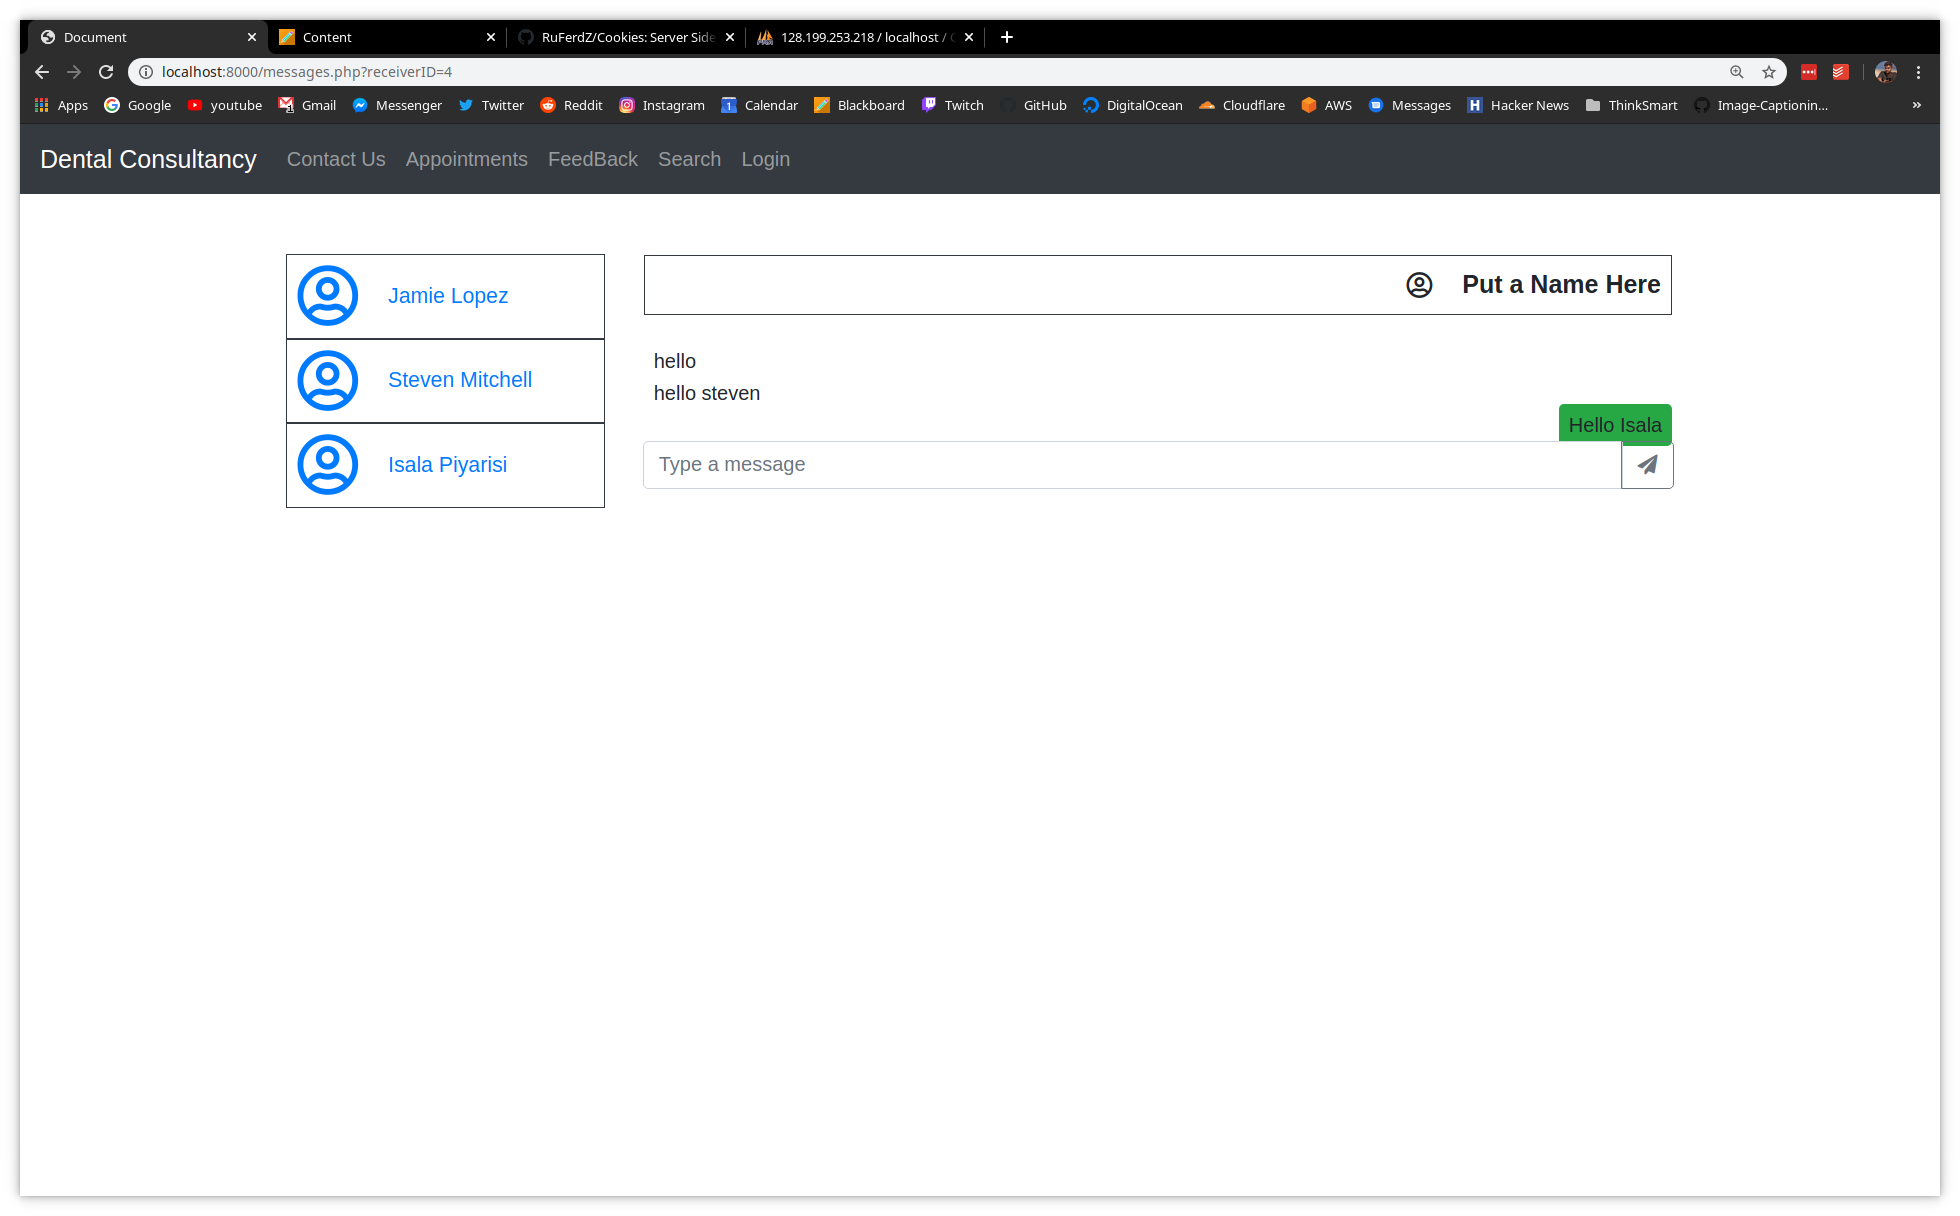
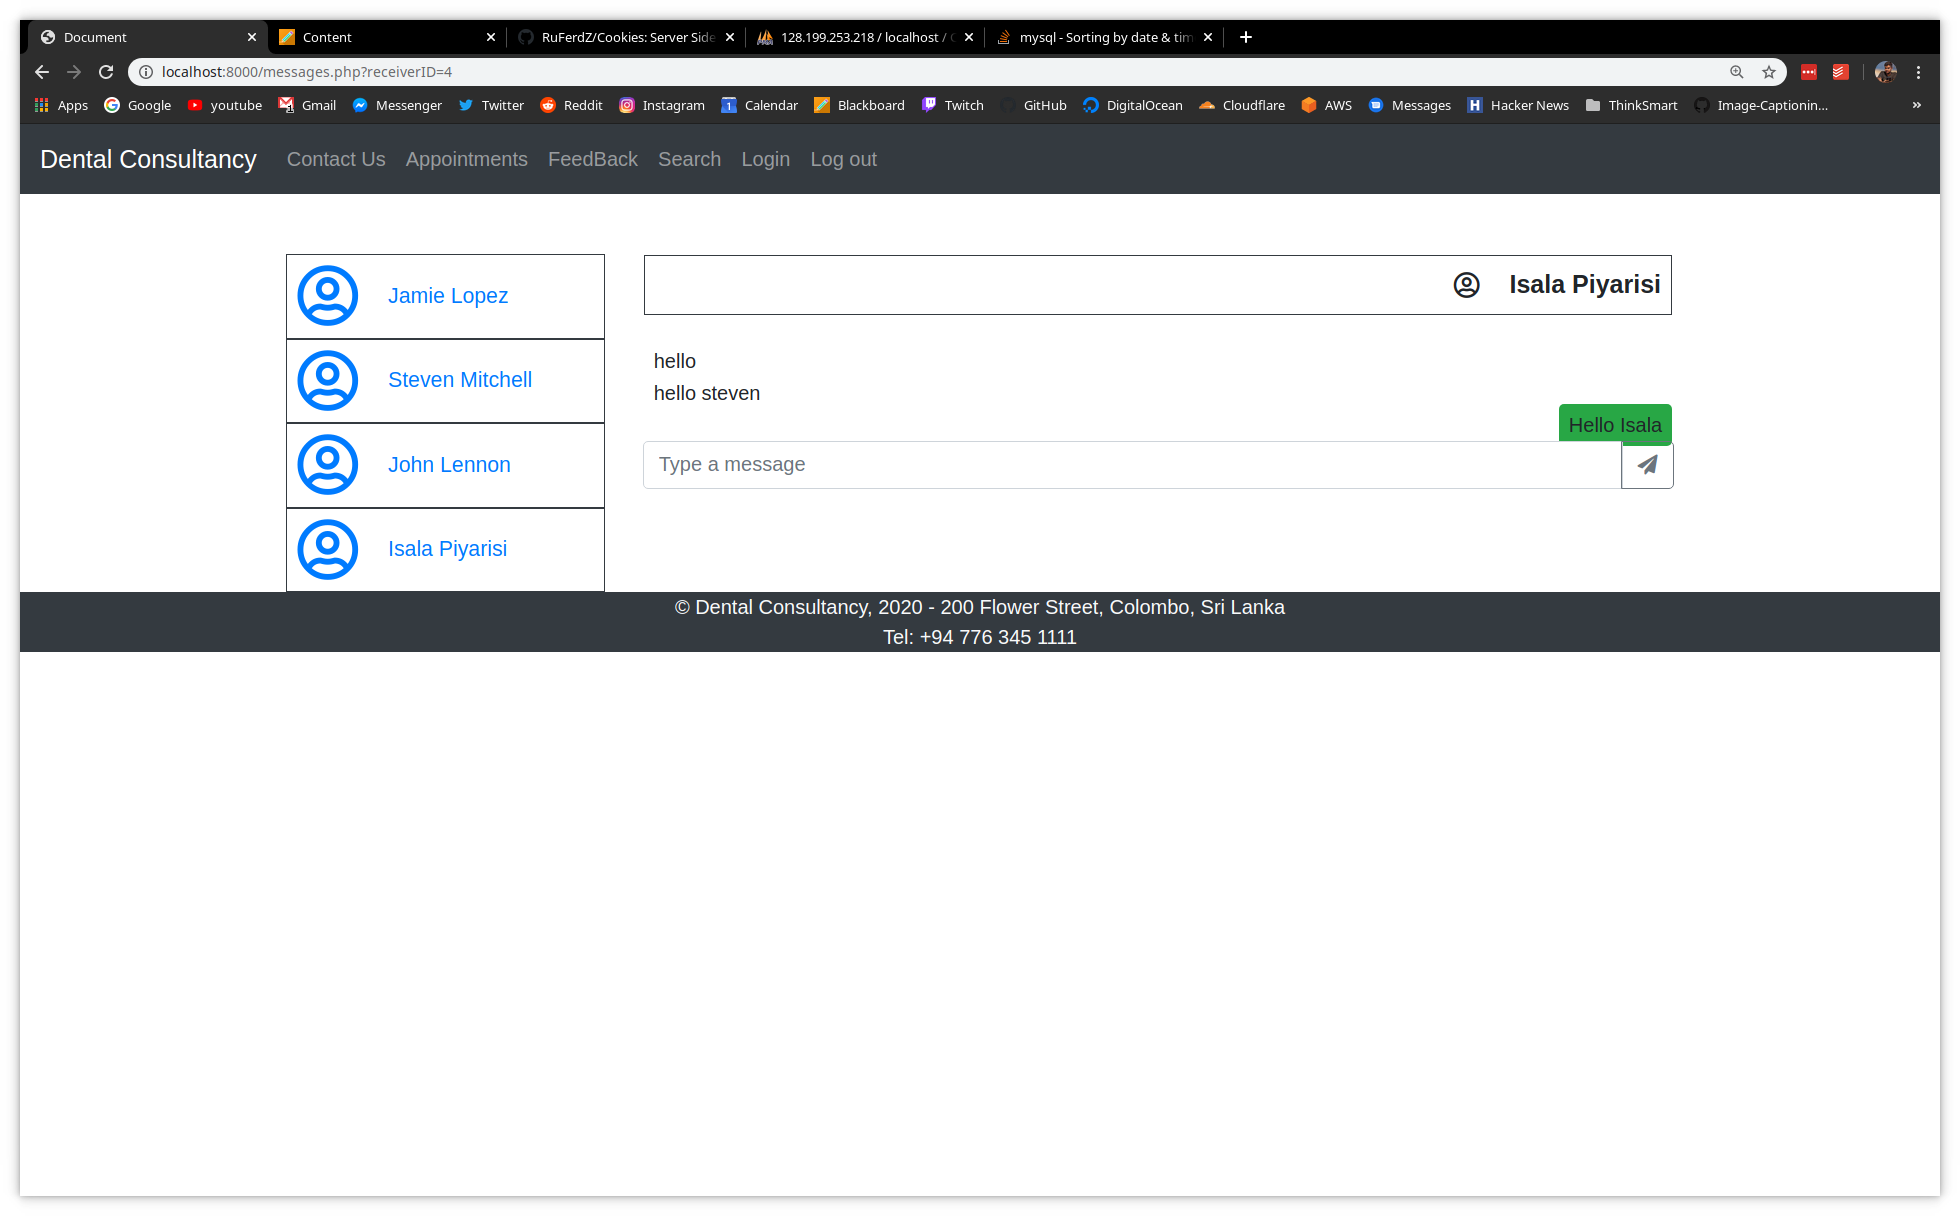
Updated message board screenshot

diff --git a/messages.php b/messages.php
@@ -56,7 +56,7 @@ echo '<body>';
                     echo '</div>';
                     echo '</th>';
                     echo '</tr>';
-                    $sql = "SELECT message.message, message.senderID, message.receiverID, CONCAT(user.userFname, ' ', user.userSName) as receiverName FROM message INNER JOIN user ON user.userID=receiverID WHERE senderID = " . $receiverID . " or receiverID = " . $receiverID . " ORDER BY createdAt";
+                    $sql = "SELECT message.message, message.senderID, message.receiverID, CONCAT(user.userFname, ' ', user.userSName) as receiverName FROM message INNER JOIN user ON user.userID=receiverID WHERE senderID = " . $receiverID . " or receiverID = " . $receiverID . " ORDER BY messageid";
 
                     foreach ($dbh->query($sql) as $row) {
                         if ($row['senderID'] ==  $receiverID) {
@@ -88,6 +88,7 @@ echo '<body>';
                             echo '</div>';
             echo '<script src="https://kit.fontawesome.com/724d324fa8.js" crossorigin="anonymous"></script>';
         echo '</div>';
+        include("footFile.html");
 echo '</body>';
 
 echo '</html>';

diff --git a/search.php b/search.php
@@ -1,6 +1,7 @@
 <?php
 $pagename="Dental Consultancy"; //create and populate variable called $pagename
 echo "<link rel=stylesheet type=text/css href=mystylesheet.css>";
+echo "<link rel='stylesheet' type='text/css' href=css/bootstrap.min.css>"; //call in stylesheet
 echo "<title>".$pagename."</title>";
 echo "<body>";
 include ("headFile.html");
